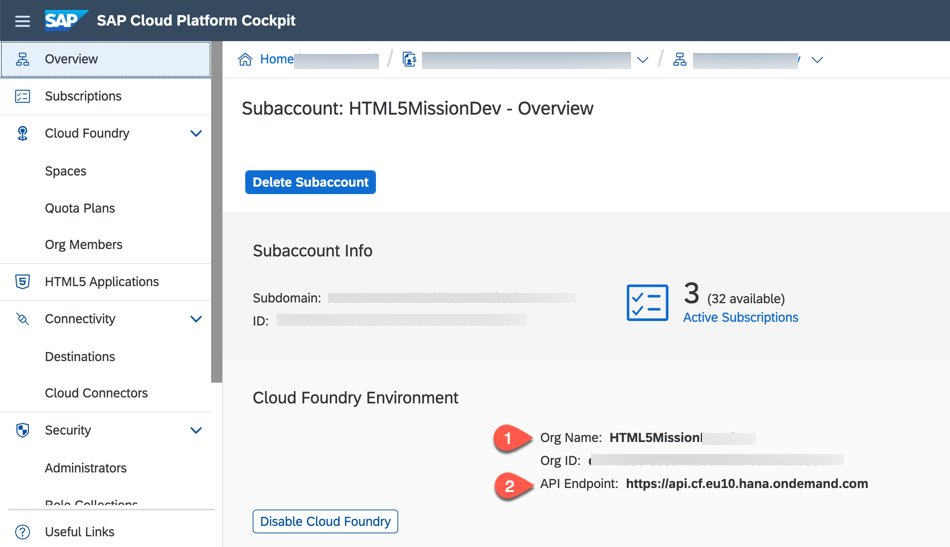
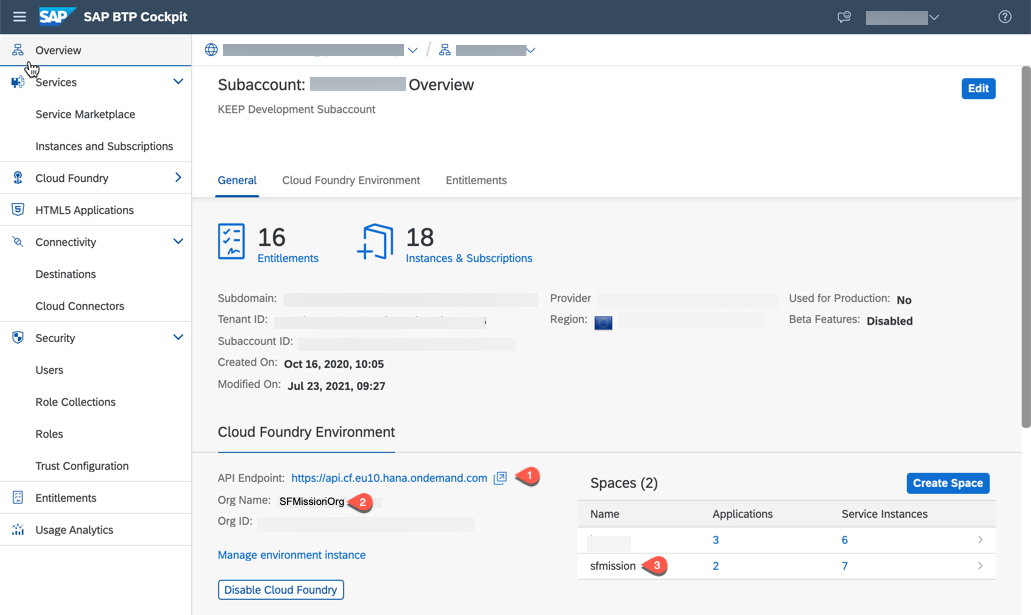
updated screenshots of account overview

diff --git a/mission/extension-app/README.md b/mission/extension-app/README.md
@@ -85,13 +85,9 @@ File / Folder | Purpose
 
      ![Login to CF](./images/loginToCF.png) 
     
-   * Enter CF API endpoint or take the default suggested API endpoint. You can find the API endpoint of your region in the overview page of your SAP BTP subaccount in the cockpit. Copy the API Endpoint. Write down the **Org Name** into a text editor of your choice because you will need it in the next step. 
+   * Enter CF API endpoint or take the default suggested API endpoint. You can find the API endpoint of your region in the overview page of your SAP BTP subaccount in the cockpit. Copy the API Endpoint. Write down the **Org Name** and copy the **Space Name** into a text editor of your choice because you will need it in the next step. 
 
      ![copy Cloud Data](./images/copyCloudData.png)
-    
-   * Choose **Spaces** and write down the space name to a text editor of your choice. 
-
-     ![copy Space Name](./images/copySpaceName.png)
      
    * Enter your **email** and **password** when prompted.
    * Select your Cloud Foundry **Org** which you have already written down.
